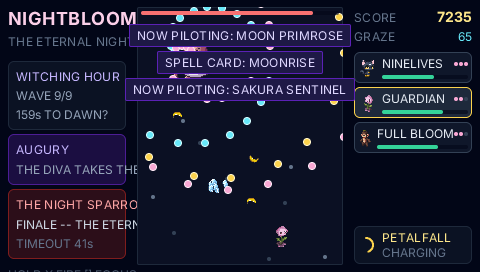
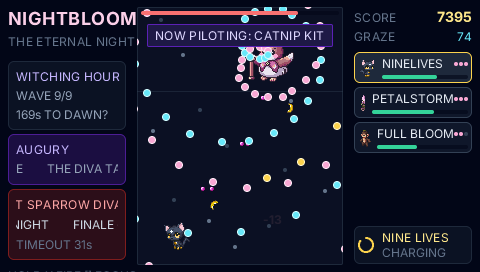
fix(nightbloom): scrolling left panel + dawn medals (#4)
* fix(nightbloom): left-panel long lines scroll like a ticker instead of clipping

The AUGURY omen, the boss's name and the spell-card title overflowed the
134 px left panel and clipped at the box edge. They now ride a marquee:
two copies loop leftward, driven by the battle tick — so the scroll
subsamples exactly like everything else — and lines short enough to fit
hold still. Width is estimated from the glyph count.

The hero screenshot is retaken on the FINALE with the moon cat piloting
(NINE LIVES charging) and the panels mid-scroll.

* feat(nightbloom): dawn medals — decorations for the wrong things

Clear the night and the dawn screen pins HONORS, OF A SORT on you: up to
three roast medals derived from the run's ledger — MERCY MEDAL (foes that
strolled off unharmed), PINCUSHION (hits taken, and proud), COMPOST AWARD
(gardeners wilted on your watch), OUTSTAYED WELCOME (cards that died of
old age), LITTERBUG (motes left in the grass), PERSONAL SPACE (not one
graze all night). A spotless run earns SUSPICIOUSLY PERFECT — the night
demands a rematch. Win screen only; the eternal night roasts nobody.

The engine grows a roast ledger (escaped / hitsTaken / motesMissed /
cardTimeouts counters plus seam accessors), the end screen is compacted
to fit the medal case, and the sim test pins the marksman's exact
decorations: 2 strolled off, struck 33 times, 24 motes in the grass.

* feat(nightbloom): the dawn medal ceremony — score first, then the stamp
[…]

diff --git a/demos/nightbloom/app.tsx b/demos/nightbloom/app.tsx
@@ -39,7 +39,7 @@ import {
   SHOTS,
   WAVES,
 } from "./data.ts";
-import { createNightbloom, FX_LIFE, type FloatFx, type Nightbloom, type PlantState } from "./engine.ts";
+import { createNightbloom, FX_LIFE, STAMP_AT, STAMP_IMPACT, type FloatFx, type Nightbloom, type PlantState } from "./engine.ts";
 
 // ---------------------------------------------------------------------------
 // Title / endings
@@ -70,32 +70,92 @@ function TitleScreen() {
   );
 }
 
+/** Chunky gold "art lettering": the same line three times, offset like a
+ *  stamped foil title. */
+function ArtTitle(props: { text: string; y: number }) {
+  return (
+    <View class="absolute left-0 right-0" style={{ insetT: props.y, height: 30 }}>
+      <Text class="absolute left-0 right-0 text-center text-2xl font-bold tracking-wide text-amber-900" style={{ translateX: 2, translateY: 2 }}>
+        {props.text}
+      </Text>
+      <Text class="absolute left-0 right-0 text-center text-2xl font-bold tracking-wide text-pink-400" style={{ translateX: -1, translateY: -1 }}>
+        {props.text}
+      </Text>
+      <Text class="absolute left-0 right-0 text-center text-2xl font-bold tracking-wide text-amber-100">
+        {props.text}
+      </Text>
+    </View>
+  );
+}
+
 function EndScreen(props: { game: Nightbloom; win: boolean }) {
   const g = props.game;
   // Only forms that ever WOKE count — a locked card never fought.
   const awakened = () => g.roster.filter((r) => r.unlocked());
   const survivors = () => awakened().filter((r) => r.hp() > 0).length;
+  /** The dawn decoration: ONE medal that congratulates you for the wrong
+   *  thing, picked in roast order; a spotless run earns suspicion. */
+  const medal = (): { title: string; detail: string } => {
+    const wilted = awakened().length - survivors();
+    if (g.escaped() > 0) return { title: "MERCY MEDAL", detail: g.escaped() + " FOES STROLLED OFF UNHARMED" };
+    if (g.hitsTaken() > 0) return { title: "PINCUSHION", detail: "STRUCK " + g.hitsTaken() + " TIMES AND PROUD" };
+    if (wilted > 0) return { title: "COMPOST AWARD", detail: wilted + " GARDENERS WILTED ON YOUR WATCH" };
+    if (g.cardTimeouts() > 0) return { title: "OUTSTAYED WELCOME", detail: g.cardTimeouts() + " CARDS DIED OF OLD AGE" };
+    if (g.motesMissed() > 0) return { title: "LITTERBUG", detail: g.motesMissed() + " MOTES LEFT IN THE GRASS" };
+    if (g.graze() === 0) return { title: "PERSONAL SPACE", detail: "NOT ONE GRAZE ALL NIGHT" };
+    return { title: "SUSPICIOUSLY PERFECT", detail: "THE NIGHT DEMANDS A REMATCH" };
+  };
+  /** The arcade count-up: the score rolls in over the first 1.2 s. */
+  const shownScore = () => Math.floor(g.score() * Math.min(1, g.endTick() / 72));
+  /** Stamp physics: appear huge and tilted, slam to rest, shake the room. */
+  const slam = () => Math.min(1, Math.max(0, (g.endTick() - STAMP_AT) / (STAMP_IMPACT - STAMP_AT)));
+  const stamped = () => props.win && g.endTick() >= STAMP_AT;
+  const SHAKE = [3, -2, 2, -2, 1, -1, 0];
+  const shake = () => {
+    const n = g.endTick() - STAMP_IMPACT;
+    return n >= 0 && n < 14 ? SHAKE[Math.min(6, n >> 1)] : 0;
+  };
   return (
-    <View debugName="End" class="absolute inset-0">
+    <View debugName="End" class="absolute inset-0" style={{ translateX: shake() }}>
       <Image class="absolute top-0 left-0 w-full h-[240]" src={props.win ? "bg-dawn.png" : "bg-eternal.png"} />
       <View class="absolute inset-0 bg-slate-950 opacity-55" />
-      <View class="absolute left-0 right-0 top-10 flex-col items-center gap-2">
+      <View class="absolute left-0 right-0 top-3 flex-col items-center gap-1">
         <Text class="text-xs text-slate-300 tracking-wide">{props.win ? "THE DIVA FALLS SILENT" : "THE GARDEN FALLS DARK"}</Text>
-        <Text class={props.win ? "text-4xl text-amber-200 font-bold tracking-wide" : "text-4xl text-red-300 font-bold tracking-wide"}>
+        <Text class={props.win ? "text-2xl text-amber-200 font-bold tracking-wide" : "text-2xl text-red-300 font-bold tracking-wide"}>
           {props.win ? "DAWN BREAKS" : "ETERNAL NIGHT"}
         </Text>
-        <View class="w-14 h-[2] bg-pink-300" />
       </View>
-      <View class="absolute left-0 right-0 top-28 flex-col items-center gap-1">
-        <View class="flex-col gap-1 p-2 rounded-md border border-slate-700 bg-[#020617cc] items-center">
-          <Text class="text-xs text-slate-300">{"SCORE: " + g.score()}</Text>
-          <Text class="text-xs text-slate-300">{"GRAZE: " + g.graze()}</Text>
-          <Text class="text-xs text-slate-300">{"FOES FELLED: " + g.kills()}</Text>
-          <Text class="text-xs text-slate-300">{"GREATEST BLOOM: STAGE " + g.bestStage()}</Text>
-          <Text class="text-xs text-slate-300">{"SURVIVING FORMS: " + survivors() + " OF " + awakened().length + " AWAKENED"}</Text>
+      {/* act one: the score takes the stage, rolling up arcade-style */}
+      <View class="absolute left-0 right-0 flex-col items-center gap-1" style={{ insetT: 74 }}>
+        <Text class="text-xs text-slate-400 tracking-wide">SCORE</Text>
+        <Text class="text-4xl text-amber-200 font-bold tracking-wide">{String(props.win ? shownScore() : g.score())}</Text>
+      </View>
+      <View class="absolute left-0 right-0 flex-col items-center gap-1" style={{ insetT: 152, opacity: stamped() ? 0.3 : 1 }}>
+        <Text class="text-xs text-slate-400">{"FOES FELLED: " + g.kills() + "   GRAZE: " + g.graze()}</Text>
+        <Text class="text-xs text-slate-400">{"GREATEST BLOOM: STAGE " + g.bestStage() + "   SURVIVING FORMS: " + survivors() + " OF " + awakened().length + " AWAKENED"}</Text>
+      </View>
+      {/* act two: the medal is slapped onto the glass */}
+      <Show when={stamped()}>
+        <View
+          class="absolute left-0 right-0 items-center"
+          style={{
+            insetT: 96,
+            height: 150,
+            scale: 3.0 - 2.0 * slam(),
+            rotate: -26 + 14 * slam(),
+            opacity: 0.3 + 0.7 * slam(),
+          }}
+        >
+          <Image class="absolute w-[120] h-[120]" src="medal.png" style={{ insetL: 180, insetT: 8 }} />
+          <ArtTitle text={medal().title} y={52} />
+          <View class="absolute left-0 right-0 flex-col items-center" style={{ insetT: 86 }}>
+            <View class="px-2 py-1 rounded-sm bg-[#0f172acc] border border-amber-700">
+              <Text class="text-xs text-amber-100 tracking-wide">{medal().detail}</Text>
+            </View>
+          </View>
         </View>
-      </View>
-      <View class="absolute left-0 right-0 bottom-4 flex-col items-center">
+      </Show>
+      <View class="absolute left-0 right-0 bottom-1 flex-col items-center">
         <Text class="text-sm text-amber-300 tracking-wide">START  RETURN TO TITLE</Text>
       </View>
     </View>
@@ -371,6 +431,29 @@ function Field(props: { game: Nightbloom }) {
 // Side panels
 // ---------------------------------------------------------------------------
 
+/** Long lines in the narrow panels scroll like a ticker instead of
+ *  clipping: two copies loop leftward, driven by the battle tick (so the
+ *  marquee subsamples exactly like everything else). Short lines hold
+ *  still. Width is estimated from the glyph count. */
+function Marquee(props: { game: Nightbloom; text: string; cls: string; width: number }) {
+  const textW = () => props.text.length * 7;
+  const scroll = () => {
+    if (textW() <= props.width) return 0;
+    const span = textW() + 24;
+    return -((props.game.fxTick() * 0.6) % span);
+  };
+  return (
+    <View class="overflow-hidden" style={{ width: props.width, height: 16 }}>
+      <View class="flex-row gap-6" style={{ translateX: scroll() }}>
+        <Text class={props.cls}>{props.text}</Text>
+        <Show when={textW() > props.width}>
+          <Text class={props.cls}>{props.text}</Text>
+        </Show>
+      </View>
+    </View>
+  );
+}
+
 function LeftPanel(props: { game: Nightbloom }) {
   const g = props.game;
   const phaseName = () => {
@@ -394,14 +477,14 @@ function LeftPanel(props: { game: Nightbloom }) {
       <Show when={g.augury() !== ""}>
         <View class="flex-col gap-1 p-2 rounded-md border border-violet-900 bg-[#020617aa]">
           <Text class="text-xs text-violet-300 tracking-wide">AUGURY</Text>
-          <Text class="text-xs text-slate-400 leading-4">{g.augury()}</Text>
+          <Marquee game={g} text={g.augury()} cls="text-xs text-slate-400" width={102} />
         </View>
       </Show>
       <Show when={g.boss()} keyed>
         {(b) => (
           <View class="flex-col gap-1 p-2 rounded-md border border-red-900 bg-[#020617aa]">
-            <Text class="text-xs text-red-300 tracking-wide">{b.def.name}</Text>
-            <Text class="text-xs text-slate-300 leading-4">{b.def.phases[b.phase()].card}</Text>
+            <Marquee game={g} text={b.def.name} cls="text-xs text-red-300 tracking-wide" width={102} />
+            <Marquee game={g} text={b.def.phases[b.phase()].card} cls="text-xs text-slate-300" width={102} />
             <Text class="text-xs text-slate-500">{"TIMEOUT " + g.bossCardSeconds() + "s"}</Text>
           </View>
         )}

diff --git a/demos/nightbloom/engine.ts b/demos/nightbloom/engine.ts
@@ -236,6 +236,11 @@ export interface Nightbloom {
   graze: Accessor<number>;
   kills: Accessor<number>;
   bestStage: Accessor<number>;
+  /** The roast ledger: what the dawn medals tease you about. */
+  escaped: Accessor<number>;
+  hitsTaken: Accessor<number>;
+  motesMissed: Accessor<number>;
+  cardTimeouts: Accessor<number>;
   px: Accessor<number>;
   py: Accessor<number>;
   focus: Accessor<boolean>;
@@ -256,6 +261,8 @@ export interface Nightbloom {
   bossCardSeconds: Accessor<number>;
   /** Battle tick of the last boss entry/metamorphosis, for the flash ring. */
   bossFlash: Accessor<number>;
+  /** Ticks since the outcome settled — the end screens' own clock. */
+  endTick: Accessor<number>;
   enemyShots: Accessor<EnemyShot[]>;
   playerShots: Accessor<PlayerShot[]>;
   motes: Accessor<MoteInst[]>;
@@ -283,6 +290,10 @@ const MAX_MOTES = 24;
 
 const SWITCH_TICKS = Math.round(SWITCH_COOLDOWN * TPS);
 const HURT_TICKS = Math.round(HURT_INVULN * TPS);
+/** Dawn sequence beats (in end-screen ticks): the score gets the stage
+ *  first, then the medal slams on and lands. */
+export const STAMP_AT = 120;
+export const STAMP_IMPACT = 132;
 
 export function createNightbloom(): Nightbloom {
   const outcome = cell<Outcome>("title");
@@ -312,6 +323,7 @@ export function createNightbloom(): Nightbloom {
   const toasts = cell<Toast[]>([]);
   const fxTick = cell(0);
   const bossFlash = cell(-1);
+  const endTick = cell(0);
 
   const roster: PlantState[] = PLANT_ORDER.map((kind, i) => ({
     kind,
@@ -336,8 +348,13 @@ export function createNightbloom(): Nightbloom {
   let invulnTicks = 0;
   let midbossDone = false;
   let bossDone = false;
+  let wallTicks = 0;
   let wiltTicks = 0;
   let rescues = 0;
+  const escaped = cell(0);
+  const hitsTaken = cell(0);
+  const motesMissed = cell(0);
+  const cardTimeouts = cell(0);
   const wilting = cell(false);
   const wiltSeconds = cell(0);
   const lastDx = cell(0);
@@ -394,6 +411,7 @@ export function createNightbloom(): Nightbloom {
     invulnTicks = 0;
     midbossDone = false;
     bossDone = false;
+    wallTicks = 0;
     phase.set("dusk");
     augury.set("");
     second.set(0);
@@ -418,8 +436,13 @@ export function createNightbloom(): Nightbloom {
     toasts.set([]);
     fxTick.set(0);
     bossFlash.set(-1);
+    endTick.set(0);
     wiltTicks = 0;
     rescues = 0;
+    escaped.set(0);
+    hitsTaken.set(0);
+    motesMissed.set(0);
+    cardTimeouts.set(0);
     wilting.set(false);
     wiltSeconds.set(0);
     lastDx.set(0);
@@ -582,6 +605,7 @@ export function createNightbloom(): Nightbloom {
       toast(`SPELL CARD BROKEN: ${b.def.phases[idx].card}`);
     } else {
       toast(`THE CARD TIMES OUT: ${b.def.phases[idx].card}`);
+      cardTimeouts.set(cardTimeouts() + 1);
     }
     dropMotes(b.x(), b.y(), BOSS_PHASE_BOUNTY);
     enemyShots.set([]); // the break clears the sky
@@ -617,6 +641,7 @@ export function createNightbloom(): Nightbloom {
     const def = PLANTS[p.kind];
     const eff = Math.max(1, dmg - def.armor[p.stage() - 1]);
     p.hp.set(p.hp() - eff);
+    hitsTaken.set(hitsTaken() + 1);
     invulnTicks = HURT_TICKS;
     fx(px(), py() - 12, `-${eff}`, "hurt");
     sfx("hurt");
@@ -845,6 +870,7 @@ export function createNightbloom(): Nightbloom {
       }
       if (f.y() > FIELD.y0 + FIELD.h + 18) {
         foes.set(foes().filter((x) => x.id !== f.id)); // it drifts past the garden
+        escaped.set(escaped() + 1);
         continue;
       }
       // fire
@@ -1155,6 +1181,7 @@ export function createNightbloom(): Nightbloom {
       }
       if (m.y() > FIELD.y0 + FIELD.h + 10) {
         motes.set(motes().filter((x) => x.id !== m.id));
+        motesMissed.set(motesMissed() + 1);
         continue;
       }
       const dx = m.x() - px();
@@ -1203,6 +1230,13 @@ export function createNightbloom(): Nightbloom {
       start();
       started = true; // fall through: the first batch ticks this same frame
     } else if (o === "dawn" || o === "eternal") {
+      // The outcome screens keep their own clock as (wall ticks - the tick
+      // the outcome settled on). Both terms are rate-aligned, so the medal
+      // stamp lands at the same virtual moment at every simulationHz.
+      wallTicks += ticksPerFrame();
+      const prev = endTick();
+      endTick.set(Math.max(0, wallTicks - tick));
+      if (o === "dawn" && prev < STAMP_IMPACT && endTick() >= STAMP_IMPACT) sfx("stamp");
       if (pressed & BTN.START) toTitle();
       return;
     }
@@ -1212,9 +1246,16 @@ export function createNightbloom(): Nightbloom {
     if (codexPage() > 0) return;
 
     const k = ticksPerFrame();
+    wallTicks += k;
     for (let i = 0; i < k; i++) {
-      if (outcome() !== "battle") return;
+      if (outcome() !== "battle") break;
       stepTick(i === 0 ? pressed : 0, buttons);
+    }
+    // If the night ended inside this batch, the end clock starts NOW: the
+    // wall keeps moving through the frame the outcome settled in, so the
+    // stamp timeline is subsample-exact at every rate.
+    if (outcome() === "dawn" || outcome() === "eternal") {
+      endTick.set(Math.max(0, wallTicks - tick));
     }
   }
 
@@ -1236,6 +1277,10 @@ export function createNightbloom(): Nightbloom {
     unlockedCount: () => roster.filter((r) => r.unlocked()).length,
     wilting: () => wilting(),
     rescues: () => rescues,
+    escaped: () => escaped(),
+    hitsTaken: () => hitsTaken(),
+    motesMissed: () => motesMissed(),
+    cardTimeouts: () => cardTimeouts(),
     rosterGlow: () => roster.map((r) => ({ kind: r.kind, stage: r.stage(), hp: r.hp(), glow: Math.round(r.glow()) })),
     foesAlive: () => foes().length,
     bulletCount: () => enemyShots().length,
@@ -1258,6 +1303,10 @@ export function createNightbloom(): Nightbloom {
     graze,
     kills,
     bestStage,
+    escaped,
+    hitsTaken,
+    motesMissed,
+    cardTimeouts,
     px,
     py,
     focus,
@@ -1274,6 +1323,7 @@ export function createNightbloom(): Nightbloom {
     bossCard,
     bossCardSeconds,
     bossFlash,
+    endTick,
     enemyShots,
     playerShots,
     motes,

diff --git a/demos/nightbloom/data.ts b/demos/nightbloom/data.ts
@@ -400,6 +400,7 @@ export type SfxKind =
   | "shoot"
   | "unlock"
   | "heal"
+  | "stamp"
   | "boss-bird"
   | "boss-umbrella"
   | "hit"
@@ -537,6 +538,14 @@ export const ART: ArtEntry[] = [
   { name: "shot-mochi.png", prompt: `small round white mochi rice cake, ${SHOT_STYLE}`, w: SHOT, h: SHOT, seed: 3003, transparent: true },
   { name: "mote.png", prompt: `small silver-blue moonlight droplet, sparkling, ${SHOT_STYLE}`, w: SHOT, h: SHOT, seed: 3004, transparent: true },
   { name: "shot-banana.png", prompt: `curved ripe yellow banana, ${SHOT_STYLE}`, w: SHOT, h: SHOT, seed: 3005, transparent: true },
+  {
+    name: "medal.png",
+    prompt:
+      "ornate round golden medal with a laurel wreath rim and two red ribbon tails, " +
+      "smooth empty center plaque, shiny polished gold, cute pixel art game award, " +
+      "clean thick outline, single centered object",
+    w: 128, h: 128, seed: 5001, transparent: true,
+  },
   // --- boss transformation portraits (64x64, chained from the mob art) ------
   {
     name: "boss-kasa.png",

diff --git a/test/nightbloom.sim.test.ts b/test/nightbloom.sim.test.ts
@@ -162,12 +162,16 @@ describe("nightbloom: the night actually happened", () => {
     for (const t of [m60, m2]) {
       expect(treeHasText(t.tree, "DAWN BREAKS")).toBe(true);
       expect(treeHasText(t.tree, "THE DIVA FALLS SILENT")).toBe(true);
-      expect(treeHasText(t.tree, "SCORE: 8575")).toBe(true);
+      // Act one: the score takes the stage (settled by the final frame).
+      expect(treeHasText(t.tree, "8575")).toBe(true);
       expect(treeHasText(t.tree, "GRAZE: 92")).toBe(true);
       expect(treeHasText(t.tree, "FOES FELLED: 33")).toBe(true);
       // The whole roster woke and every form survived to see the sun.
       expect(treeHasText(t.tree, "GREATEST BLOOM: STAGE 3")).toBe(true);
       expect(treeHasText(t.tree, "SURVIVING FORMS: 3 OF 3 AWAKENED")).toBe(true);
+      // Act two: ONE medal, stamped on and congratulating the wrong thing.
+      expect(treeHasText(t.tree, "MERCY MEDAL")).toBe(true);
+      expect(treeHasText(t.tree, "2 FOES STROLLED OFF UNHARMED")).toBe(true);
     }
   });
 

diff --git a/demos/nightbloom/sfx.ts b/demos/nightbloom/sfx.ts
@@ -74,6 +74,11 @@ const SFX: Record<SfxKind, SfxDef> = {
   evolve: { voices: ARP([523.25, 659.25, 783.99], 0.07, 0.12, 0.12, "sine") },
   unlock: { voices: ARP([659.25, 880, 1174.66, 1567.98], 0.09, 0.2, 0.13, "triangle") },
   heal: { voices: [{ f0: 880, f1: 1320, dur: 0.07, type: "sine", gain: 0.05 }], throttle: 260 },
+  // the medal slamming onto the glass
+  stamp: {
+    voices: [{ f0: 150, f1: 40, dur: 0.28, type: "sawtooth", gain: 0.3 }],
+    noise: [{ dur: 0.16, gain: 0.24, cutoff: 900 }],
+  },
   // the diva's cry — three quick chirps, up, down-up, and away
   "boss-bird": {
     voices: [

diff --git a/demos/nightbloom/README.md b/demos/nightbloom/README.md
@@ -14,9 +14,9 @@ left, the roster on the right).
 
 ![NIGHTBLOOM: the NIGHT SPARROW DIVA's first card](../../assets/screenshots/nightbloom.png)
 
-*The witching hour. The NIGHT SPARROW DIVA opens NIGHT SONG — WANDERING
-CHORUS; MOON PRIMROSE — a mountain of abs with the sweetest face — holds
-the pilot seat while the moon cat and the sakura rest.*
+*The FINALE. The diva's phoenix form sings THE ETERNAL NIGHT; the moon
+cat holds the pilot seat, NINE LIVES charging, while the long spell-card
+names scroll through the left panel like a ticker.*
 
 ## Play it
 